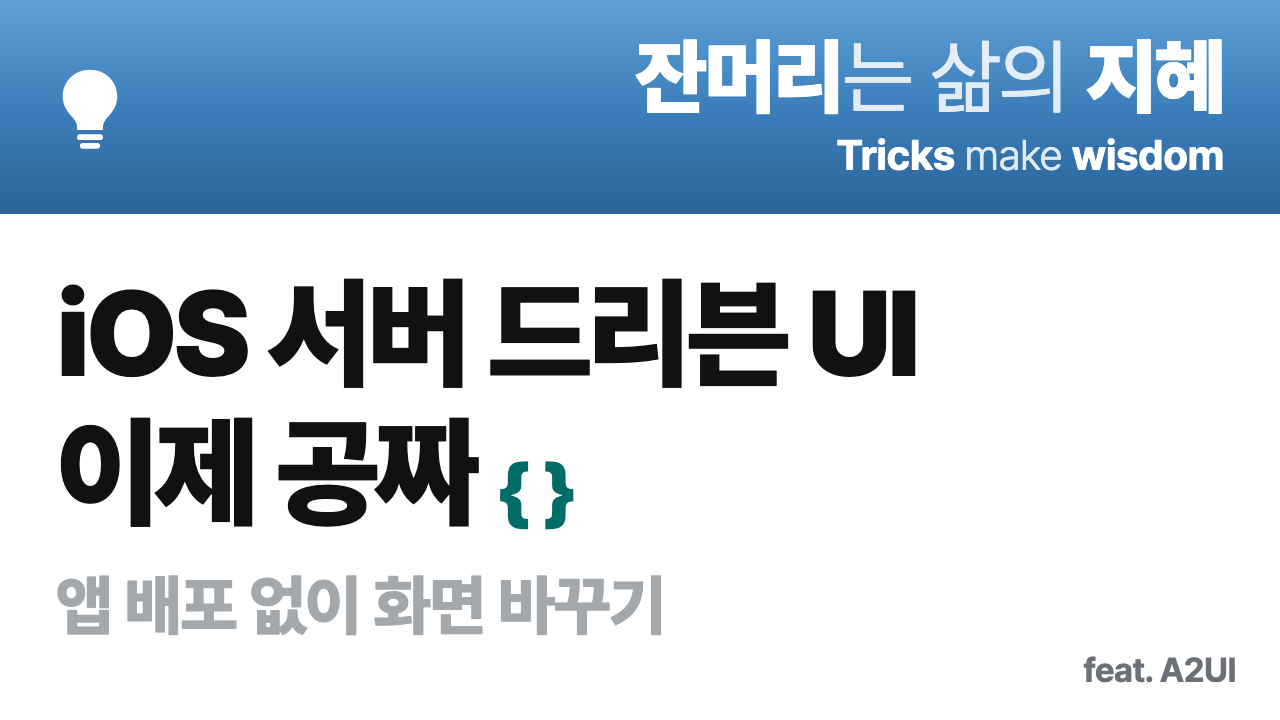
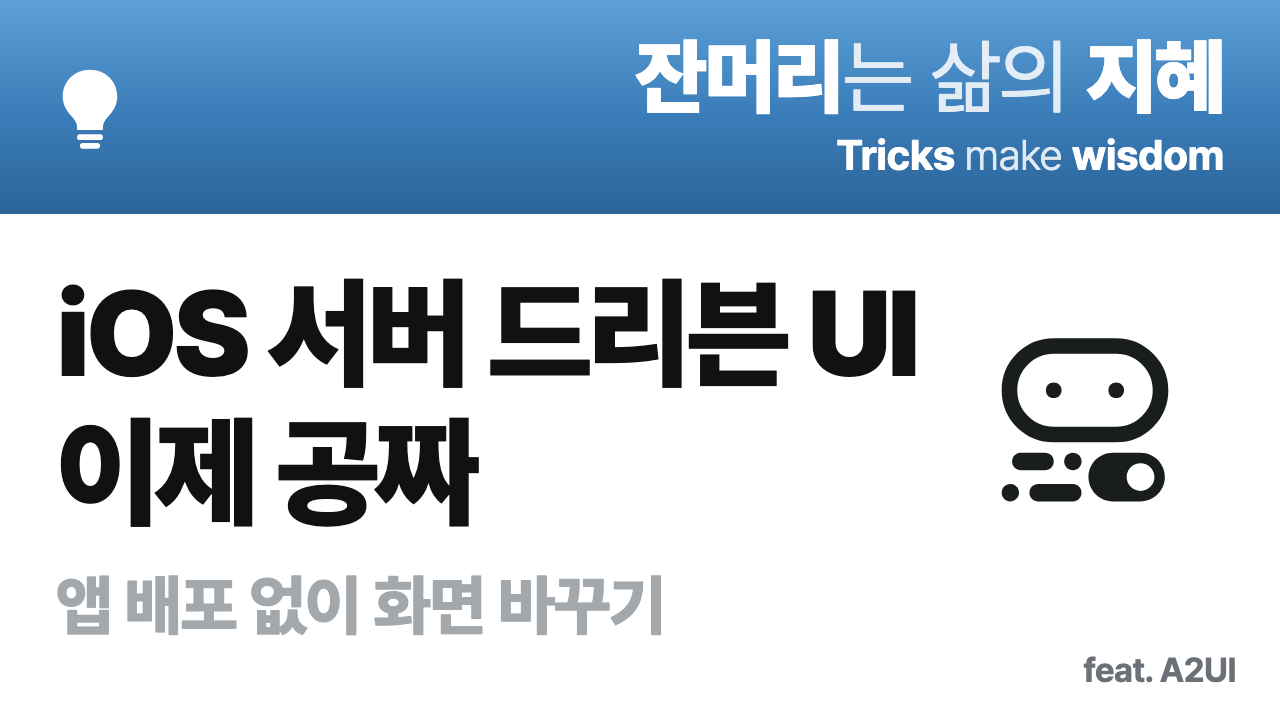
docs: 썸네일에 A2UI 로고 추가
중괄호 장식을 빼고 오른쪽 빈 공간에 A2UI 로고(vendor/a2ui/docs/assets/A2UI_dark.svg, Apache-2.0)를 넣었다.

Changed region(s): [[0.7812, 0.4583, 0.9375, 0.7028], [0.375, 0.6417, 0.4688, 0.7333]]

diff --git a/video/src/Thumbnail.tsx b/video/src/Thumbnail.tsx
@@ -1,4 +1,6 @@
-import { AbsoluteFill } from "remotion";
+import { AbsoluteFill, Img } from "remotion";
+// A2UI 로고: vendor/a2ui/docs/assets/A2UI_dark.svg (Apache-2.0)
+import logo from "../../docs/thumbnail/a2ui-logo.svg";
 import { theme } from "./theme";
 
 // "잔머리는 삶의 지혜" 재생목록 썸네일 양식: 파란 상단 띠 + 흰 본문 + 회색 영문 부제
@@ -43,12 +45,12 @@ export function Thumbnail() {
           iOS 서버 드리븐 UI
           <br />
           이제 공짜
-          <span style={{ fontSize: 72, color: theme.accent, marginLeft: 24, letterSpacing: 0 }}>{"{ }"}</span>
         </div>
         <div style={{ marginTop: 24, fontSize: 66, fontWeight: 800, color: "#a3a8ad", letterSpacing: -1.5 }}>
           앱 배포 없이 화면 바꾸기
         </div>
       </div>
+      <Img src={logo} style={{ position: "absolute", right: 70, top: 300, width: 250, height: 250 }} />
       <div style={{ position: "absolute", right: 44, bottom: 30, fontSize: 34, fontWeight: 700, color: "#6b7177", letterSpacing: -0.5 }}>
         feat. A2UI
       </div>

diff --git a/video/src/assets.d.ts b/video/src/assets.d.ts
@@ -6,3 +6,7 @@ declare module "*.png" {
   const url: string;
   export default url;
 }
+declare module "*.svg" {
+  const src: string;
+  export default src;
+}
